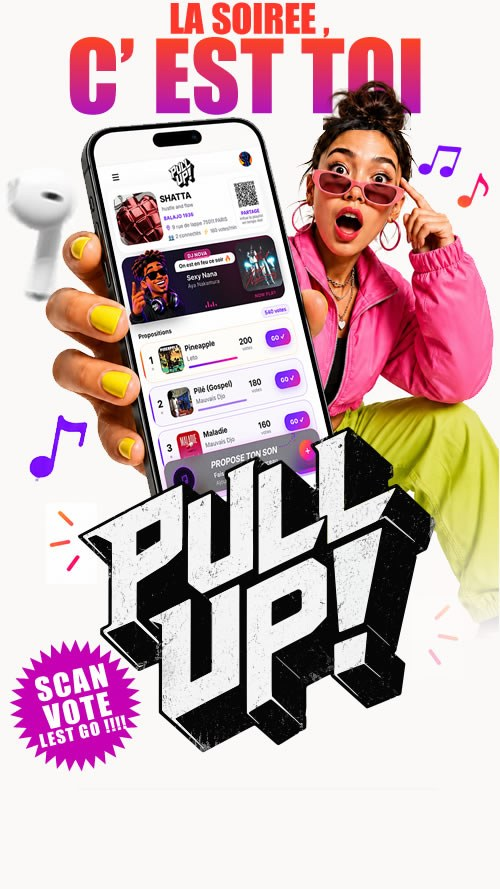
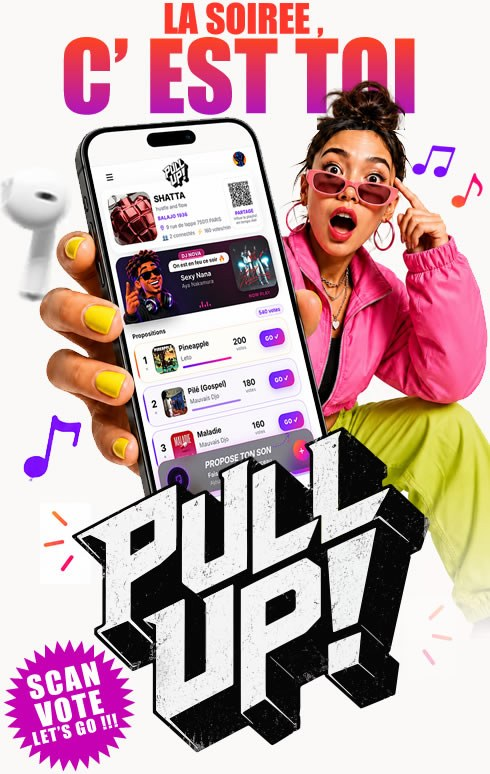
Update the login page promo image ("Let's Go" typo fix)

diff --git a/public/index.html b/public/index.html
@@ -706,7 +706,7 @@ button:active{opacity:.75;transform:scale(.97);transition:opacity .08s,transform
 <div class="page active" id="pg-auth">
   <div class="auth-wrap" style="position:relative;margin:auto">
     <div class="auth-hero" style="text-align:center">
-      <img src="/images/auth-hero-promo.jpg?v=1" alt="PULL UP! — La soirée, c'est toi" class="auth-promo-img">
+      <img src="/images/auth-hero-promo.jpg?v=2" alt="PULL UP! — La soirée, c'est toi" class="auth-promo-img">
     </div>
     <div class="auth-card">
       <div class="auth-card-ttl">Connectez-vous pour voter</div>
